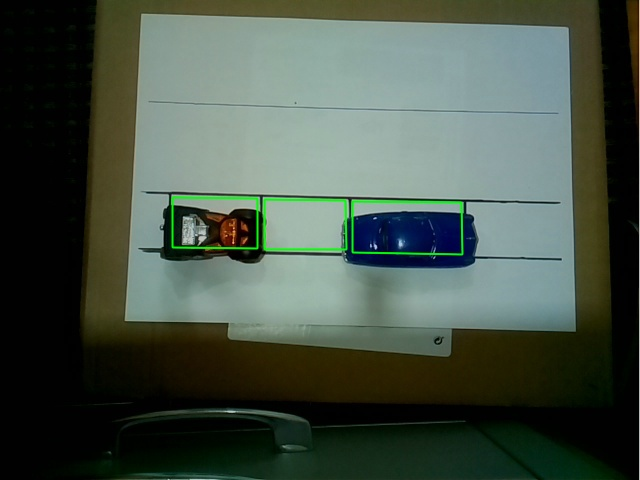
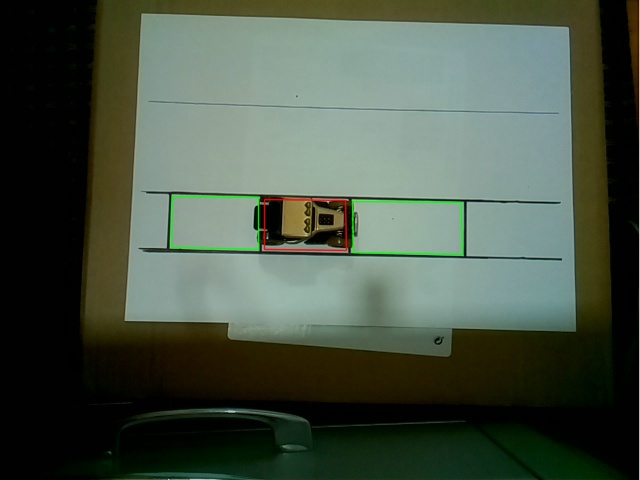
computer vision done and added some comments

Changed region(s): [[0.25, 0.4062, 0.75, 0.625], [0.25, 0.9688, 0.3438, 1.0]]

diff --git a/src/CParkDetection.cpp b/src/CParkDetection.cpp
@@ -74,10 +74,6 @@ bool CParkDetection::getOutline(const Mat& frame)
         }
     }
 
-    // polylines(frame, parkCoords, true, Scalar(0, 255, 0), 1, LINE_AA);
-    // imwrite("outline.jpg", frame);
-    // system("scp outline.jpg fernandes@10.42.0.1:/home/fernandes/code/slipad/opencv");
-
     vacantsNum = parkCoords.size();
 
     if(vacantsNum == 0)
@@ -88,6 +84,11 @@ bool CParkDetection::getOutline(const Mat& frame)
 
 int CParkDetection::calcVacants(const Mat& frame)
 {
+    // no parking spot detected
+    if(!parkCoords.size())
+        getOutline(frame);
+
+    // detect cars in the frame
 	vector<Rect> features = detectCars(frame);
 
     // Reset the number of parking spots available
@@ -99,41 +100,16 @@ int CParkDetection::calcVacants(const Mat& frame)
     {
         vector<Point> rect = getRectPoints(features[f]);
         
-        int pos = isOverlapp(rect);
-        cout << "pos:" << pos << endl;
         // Is the car over the parking spot?
-            //      The center of the car match with the center of the parking spot?
+        //  The center of the car match with the center of the parking spot?
+        int pos = isOverlapp(rect);
         if( pos != -1 )
         {
             vacantsNum--;
             // park unavailable
             parkStatus[pos] = 0;
-            cout << "overlapped" << endl;
         }
     }
-
-    // // Evaluate the parking spot availability
-    // for( int f = 0; f < features.size(); f++ )
-    // {
-    //     vector<Point> rect = getRectPoints(features[f]);
-    //     Point rectCenter = findCenter(rect);
-    //     for ( int p = 0; p < parkCoords.size(); p++ )
-    //     {
-    //         Point parkCenter = findCenter(parkCoords[p]);
-
-    //         // Is the car over the parking spot?
-    //         //      The center of the car match with the center of the parking spot?
-    //         if ( (fabs(rectCenter.x - parkCenter.x) < 50) && (fabs(rectCenter.x - parkCenter.x) < 50) )
-    //         {
-    //             vacantsNum--;
-    //             // park unavailable
-    //             parkStatus[p] = 0;
-    //         }
-    //         else 
-    //             // park available
-    //             parkStatus[p] = 1;   
-    //     }
-    // }
    
 	// return number of free parking spots
 	return vacantsNum;
@@ -221,16 +197,12 @@ int CParkDetection::isOverlapp(vector<Point>& approx)
     for( int i=0; i < parkCoords.size(); i++ )
     {        
         Point parkCoordsCenter = findCenter(parkCoords[i]);
-        cout << "parkCoordsCenter(" << parkCoordsCenter.x << "," << parkCoordsCenter.y << ")" << endl;
-        cout << "approxCenter(" << approxCenter.x << "," << approxCenter.y << ")" << endl;
 
         // centers are overlapped? Distance between centers inferior to 30
         if( fabs(parkCoordsCenter.x - (approxCenter.x)) < 80 &&
             fabs(parkCoordsCenter.y - (approxCenter.y)) < 80 )   
             return i;
     }
-
-
 
     return -1;
 }
@@ -260,31 +232,34 @@ vector<Point> CParkDetection::getRectPoints(const Rect& rectangle)
     float width = rectangle.width;
     float height = rectangle.height;
 
-    // top left point
+    // down left point
     points.push_back(Point(rectangle.x, rectangle.y));
 
-    // top right point
+    // down right point
     points.push_back(Point(rectangle.x+width, rectangle.y));
 
-    // down right point
-    points.push_back(Point(rectangle.x+width, rectangle.y-height));
+    // top right point
+    points.push_back(Point(rectangle.x+width, rectangle.y+height));
 
-    // down left point 
-    points.push_back(Point(rectangle.x, rectangle.y-height));
+    // top left point 
+    points.push_back(Point(rectangle.x, rectangle.y+height));
 
     return points;
 }
 
+/**
+ * Debug Function 
+ */
 void CParkDetection::writeParks(Mat& frame)
 {
     for( int i = 0; i < parkCoords.size(); i++ )
-    {
+    { 
         // Available
         if( parkStatus[i] == 1 )
-            polylines(frame, parkCoords, true, Scalar(0, 255, 0), 1, LINE_AA);
+            polylines(frame, parkCoords[i], true, Scalar(0, 255, 0), 1, LINE_AA);
         // unavailable
         else if( parkStatus[i] == 0 )
-            polylines(frame, parkCoords, true, Scalar(0, 0, 255), 1, LINE_AA);
+            polylines(frame, parkCoords[i], true, Scalar(0, 0, 255), 1, LINE_AA);
     }
     
     imwrite("image.jpg", frame);

diff --git a/src/CCamera.cpp b/src/CCamera.cpp
@@ -18,7 +18,8 @@
 using namespace cv;
 using namespace std;
 	
-CCamera::CCamera(string camDevName)
+CCamera::CCamera(string camDevName):
+        camDeviceName(camDevName)
 {
     open();
 
@@ -38,7 +39,7 @@ CCamera::CCamera(string camDevName)
 
     system("v4l2-ctl --set-ctrl=sharpness=30");
 
-    sleep(2);
+    close();
 }
 
 CCamera::~CCamera()
@@ -48,10 +49,11 @@ CCamera::~CCamera()
 
 bool CCamera::open()
 {
-	// device ID -> camera device
+    // device ID -> camera device
     // apiPreference = cv::CAP_ANY (0) -> autodetect default API
-	// return camDev.open(DEV_ID, cv::CAP_ANY);
     return camDev.open(DEV_ID, cv::CAP_V4L2);
+    // return camDev.open(DEV_ID, cv::CAP_ANY);
+
 }
 
 void CCamera::close()
@@ -61,11 +63,14 @@ void CCamera::close()
 
 bool CCamera::captureFrame()
 {
+    // open device
     open();
 
+    // device opened?
     if (!camDev.isOpened())
         panic("[Camera] Not open.\n");
 
+    // read frame into lastFrame
     camDev.read(lastFrame);
 
     // check if read successfully
@@ -78,6 +83,7 @@ bool CCamera::captureFrame()
     // write image to path
     imwrite(PATH, lastFrame);
 
+    // close device
     close();
 
     return true;

diff --git a/inc/CCamera.h b/inc/CCamera.h
@@ -10,10 +10,6 @@
 #define __CCAMERA_H__
 
 #include <opencv2/opencv.hpp>
-
-// #include <opencv/cv.h>
-//#include <highgui.h>
-
 #include <videoio.hpp>
 
 class CCamera
@@ -22,20 +18,33 @@ public:
 	CCamera(std::string camDevName);
 	~CCamera();
 
+	/**
+	 * @brief 	Open camera device
+	 * @return  True if opened/ false if not
+	 * */
 	bool open();
+
+	/**
+	 * @brief 	Close camera device
+	 * */
 	void close();
 
-	//bool isOpen();
-
+	/**
+	 * @brief 	Capture image and store it 
+	 * @return  True if captured
+	 * */
 	bool captureFrame();
 
 protected:
 	
 private:
+	// camera device
 	cv::VideoCapture camDev;
-	std::string camDeviceName; // >>>>>>>>>>>>>>>>>>>>>>>>> See if useful
+	
+	// camera device name 
+	const std::string camDeviceName;
 
-	//std::vector<Mat>lastFrame;
+	// last image captured
 	cv::Mat lastFrame;
 };
 // End CCamera class definition

diff --git a/inc/CParkDetection.h b/inc/CParkDetection.h
@@ -40,7 +40,12 @@ public:
 	 * */
 	const int getVacants(void);
 
-		// <<<<<<<<<<<<<<<<<<<<<<<<<<<<<<<<<<<<<<<<<<<<<<<<<<<<<<<<<<<DEBUG
+	/**
+	 * @brief 	Circulate the free parks in green and
+	 * 					the occupied parks in red
+	 * @param 	3 points forming an angle
+	 * @return  Cosine of the angle
+	 * */
 	void writeParks(cv::Mat& frame);
 
 private:
